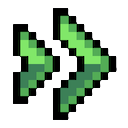
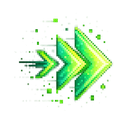
Room service Final gambit Momentum Overclock Equalist Payday Paycut Slow but steady Exit Speedup

diff --git a/src/modules/battleTree/modifier/BattleTreeModifiers.ts b/src/modules/battleTree/modifier/BattleTreeModifiers.ts
@@ -645,6 +645,16 @@ const enemyAttackGrowth: BattleTreeModifierDefinition<TimeData> = {
     }),
 };
 
+const exit: BattleTreeModifierDefinition = {
+    id: 'exit',
+    name: 'Exit',
+    description: 'Immediately end the Battle Climb',
+    image: 'assets/images/battleTree/modifiers/exit.png',
+    weight: 1,
+    stack: { max: 1 },
+    onAcquire: ctx => ctx.endSequence('Exit'),
+};
+
 const cashIn: BattleTreeModifierDefinition = {
     id: 'cash_in',
     name: 'Cash In',
@@ -989,6 +999,114 @@ const trickRoom: BattleTreeModifierDefinition = {
     ],
 };
 
+const roomService: BattleTreeModifierDefinition = {
+    id: 'room_service',
+    name: 'Room Service',
+    description: 'Your Pokémon lose 25% Speed and gain 12.5% Attack and Defense',
+    image: 'assets/images/battleTree/modifiers/room_service.png',
+    weight: 1,
+    effects: [
+        { target: { key: 'speed', scope: ['Team_A'] }, value: 0.75, operation: 'multiplicative' },
+        { target: { key: 'attack', scope: ['Team_A'] }, value: 1.125, operation: 'multiplicative' },
+        { target: { key: 'defense', scope: ['Team_A'] }, value: 1.125, operation: 'multiplicative' },
+    ],
+};
+
+const finalGambit: BattleTreeModifierDefinition = {
+    id: 'final_gambit',
+    name: 'Final Gambit',
+    description: 'Your Pokémon use their current HP as their Attack',
+    image: 'assets/images/battleTree/modifiers/final_gambit.png',
+    weight: 1,
+    stack: { max: 1 },
+    effects: [
+        { target: { key: 'attack', scope: ['Team_A'] }, value: (ctx, data, { pokemon }) => pokemon.hitpoints, operation: 'override' },
+    ],
+};
+
+const momentum: BattleTreeModifierDefinition<StageData> = {
+    id: 'momentum',
+    name: 'Momentum',
+    description: 'Starting now, gain 1% rewards and 1% game speed for each platform cleared',
+    image: 'assets/images/battleTree/modifiers/momentum.png',
+    weight: 1,
+    stack: { max: 1 },
+    effects: [
+        { target: { key: 'rewards' }, value: (ctx, data) => 1 + 0.01 * (ctx.sequence.stage - data.acquiredStage), operation: 'multiplicative' },
+        { target: { key: 'game_speed' }, value: (ctx, data) => 1 + 0.01 * (ctx.sequence.stage - data.acquiredStage), operation: 'multiplicative' },
+    ],
+    createData: ctx => ({ acquiredStage: ctx.sequence.stage }),
+};
+
+const overclock: BattleTreeModifierDefinition = {
+    id: 'overclock',
+    name: 'Overclock',
+    description: 'Game speed is doubled, but opponent Pokémon gain 20% Attack and Speed',
+    image: 'assets/images/battleTree/modifiers/overclock.png',
+    weight: 1,
+    stack: { max: 1 },
+    effects: [
+        { target: { key: 'game_speed' }, value: 2, operation: 'multiplicative' },
+        { target: { key: 'attack', scope: ['Team_B'] }, value: 1.2, operation: 'multiplicative' },
+        { target: { key: 'speed', scope: ['Team_B'] }, value: 1.2, operation: 'multiplicative' },
+    ],
+};
+
+const equalist: BattleTreeModifierDefinition = {
+    id: 'equalist',
+    name: 'Equalist',
+    description: 'Your opponent can only bring as many Pokémon as you have unfainted Pokémon',
+    image: 'assets/images/battleTree/modifiers/equalist.png',
+    weight: 1,
+    stack: { max: 1 },
+    effects: [
+        { target: { key: 'max_team_size', scope: ['Team_B'] }, value: ctx => ctx.sequence.teams.Team_A.list.filter(p => p.hitpoints > 0).length, operation: 'override' },
+    ],
+};
+
+const payday: BattleTreeModifierDefinition = {
+    id: 'payday',
+    name: 'Payday',
+    description: 'Earn currency',
+    image: 'assets/images/battleTree/modifiers/payday.png',
+    weight: 1,
+    onAcquire: ctx => ctx.sequence.rollPool('currency', undefined, 1),
+};
+
+const paycut: BattleTreeModifierDefinition = {
+    id: 'paycut',
+    name: 'Paycut',
+    description: 'You earn 20% fewer rewards',
+    image: 'assets/images/battleTree/modifiers/paycut.png',
+    weight: 1,
+    effects: [{ target: { key: 'rewards' }, value: 0.8, operation: 'multiplicative' }],
+};
+
+const slowButSteady: BattleTreeModifierDefinition<StageData> = {
+    id: 'slow_but_steady',
+    name: 'Slow But Steady',
+    description: 'Starting now, your Pokémon gain 1% to all stats for each platform cleared',
+    image: 'assets/images/battleTree/modifiers/slow_but_steady.png',
+    weight: 1,
+    stack: { max: 1 },
+    effects: [
+        { target: { key: 'attack', scope: ['Team_A'] }, value: (ctx, data) => 1 + 0.01 * (ctx.sequence.stage - data.acquiredStage), operation: 'multiplicative' },
+        { target: { key: 'defense', scope: ['Team_A'] }, value: (ctx, data) => 1 + 0.01 * (ctx.sequence.stage - data.acquiredStage), operation: 'multiplicative' },
+        { target: { key: 'speed', scope: ['Team_A'] }, value: (ctx, data) => 1 + 0.01 * (ctx.sequence.stage - data.acquiredStage), operation: 'multiplicative' },
+    ],
+    createData: ctx => ({ acquiredStage: ctx.sequence.stage }),
+};
+
+const speedup: BattleTreeModifierDefinition<StageData> = {
+    id: 'speed_up',
+    name: 'Speed Up',
+    description: 'Game speed is tripled for the next 5 platforms',
+    image: 'assets/images/battleTree/modifiers/speed_up.png',
+    weight: 1,
+    effects: [{ target: { key: 'game_speed' }, value: (ctx, data) => ctx.sequence.stage - data.acquiredStage < 5 ? 3 : 1, operation: 'multiplicative' }],
+    createData: ctx => ({ acquiredStage: ctx.sequence.stage }),
+};
+
 export const BattleTreeModifiers: BattleTreeModifierDefinition[] = [
     // System modifiers
     forfeit,
@@ -1045,6 +1163,7 @@ export const BattleTreeModifiers: BattleTreeModifierDefinition[] = [
     enemyPriority,
     rewardsVsSpeed,
     enemyAttackGrowth,
+    exit,
     cashIn,
     enemiesExtraStatsPerStage,
     fatigue,
@@ -1070,4 +1189,13 @@ export const BattleTreeModifiers: BattleTreeModifierDefinition[] = [
     megaDrain,
     perfectBalance,
     trickRoom,
+    roomService,
+    finalGambit,
+    momentum,
+    overclock,
+    equalist,
+    payday,
+    paycut,
+    slowButSteady,
+    speedup,
 ];

diff --git a/src/modules/battleTree/modifier/BattleTreeModifierNameType.ts b/src/modules/battleTree/modifier/BattleTreeModifierNameType.ts
@@ -52,6 +52,7 @@ export type BattleTreeModifierNameType
     | 'enemy_priority'
     | 'rewards_vs_speed'
     | 'enemy_attack_growth'
+    | 'exit'
     | 'cash_in'
     | 'enemies_extra_stats_per_stage'
     | 'fatigue'
@@ -76,4 +77,13 @@ export type BattleTreeModifierNameType
     | 'absorb'
     | 'perfect_balance'
     | 'mega_drain'
-    | 'trick_room';
+    | 'trick_room'
+    | 'room_service'
+    | 'final_gambit'
+    | 'momentum'
+    | 'overclock'
+    | 'equalist'
+    | 'payday'
+    | 'paycut'
+    | 'slow_but_steady'
+    | 'speed_up';

diff --git a/src/modules/battleTree/rewards/pools/BattleTreeRewardPools.ts b/src/modules/battleTree/rewards/pools/BattleTreeRewardPools.ts
@@ -35,6 +35,18 @@ export const BattleTreeRewardPools: Partial<Record<BattleTreeRewardPoolNameType,
             { item: 'Moonball', weight: 1, amount: 1 },
         ],
     }),
+    currency: new BattleTreeRewardPool({
+        id: 'currency',
+        entries: [
+            { item: 'Money', weight: 1, amount: 1000 },
+            { item: 'Quest Point', weight: 1, amount: 1000 },
+            { item: 'Dungeon Token', weight: 1, amount: 1000 },
+            { item: 'Diamond', weight: 1, amount: 1000 },
+            { item: 'Farm Point', weight: 1, amount: 1000 },
+            { item: 'Battle Point', weight: 1, amount: 1000 },
+            { item: 'Contest Token', weight: 1, amount: 1000 },
+        ],
+    }),
     evo_items: new BattleTreeRewardPool({
         id: 'evo_items',
         entries: [

diff --git a/src/modules/battleTree/rewards/pools/BattleTreeRewardPool.ts b/src/modules/battleTree/rewards/pools/BattleTreeRewardPool.ts
@@ -3,7 +3,7 @@ import SeededRand from '../../../utilities/SeededRand';
 import Rand from '../../../utilities/Rand';
 import Requirement from '../../../requirements/Requirement';
 
-export type BattleTreeRewardPoolNameType = 'generic' | 'mega_rare' | 'special_ball' | 'evo_items' | 'shadow_mewtwo';
+export type BattleTreeRewardPoolNameType = 'generic' | 'mega_rare' | 'special_ball' | 'currency' | 'evo_items' | 'shadow_mewtwo';
 
 interface BattleTreeRewardPoolEntry {
     item: ItemNameType | BattleTreeRewardPool;